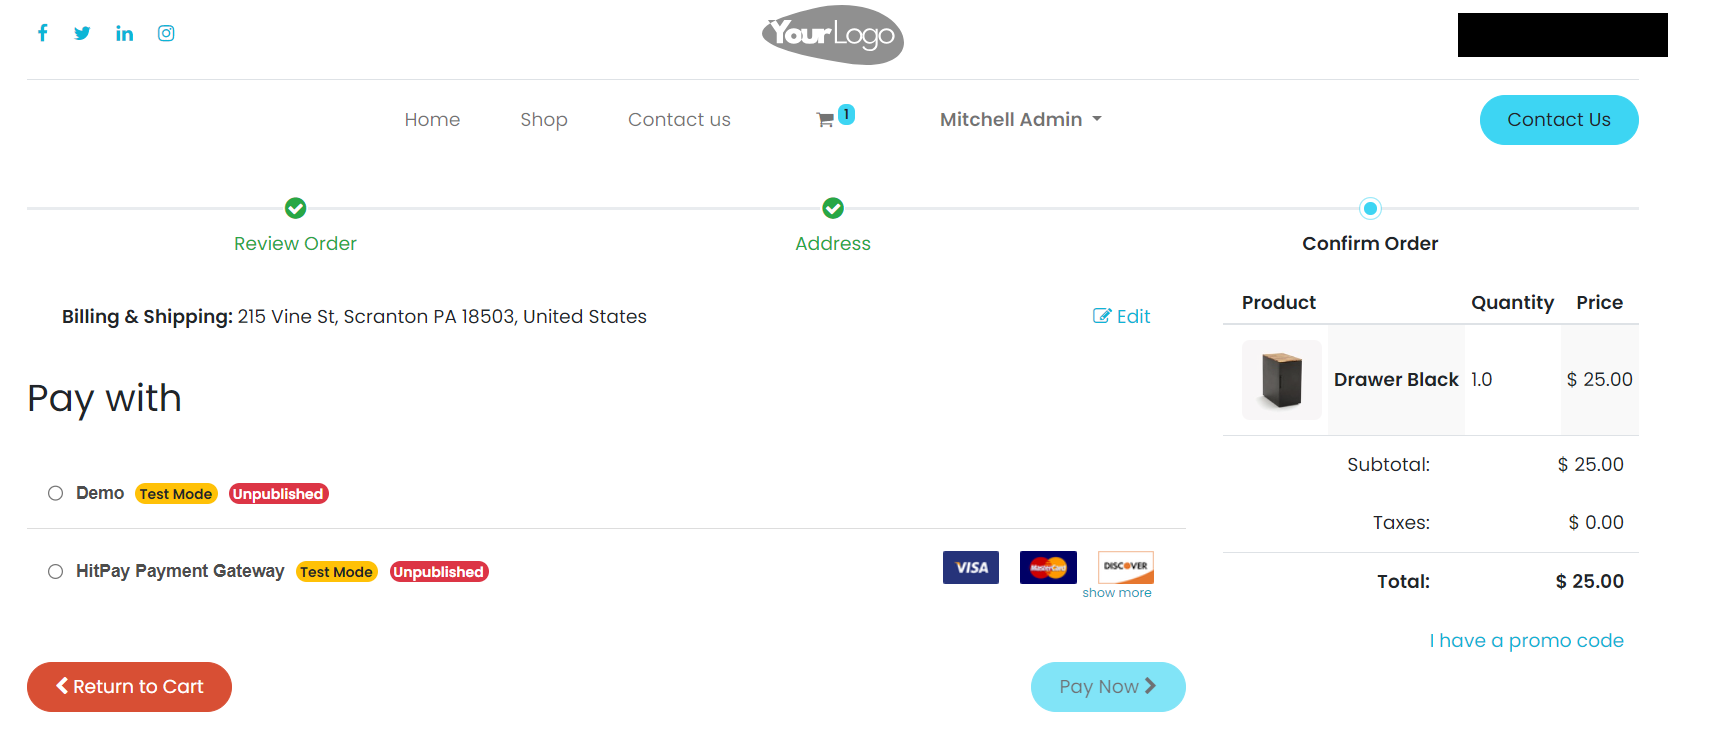
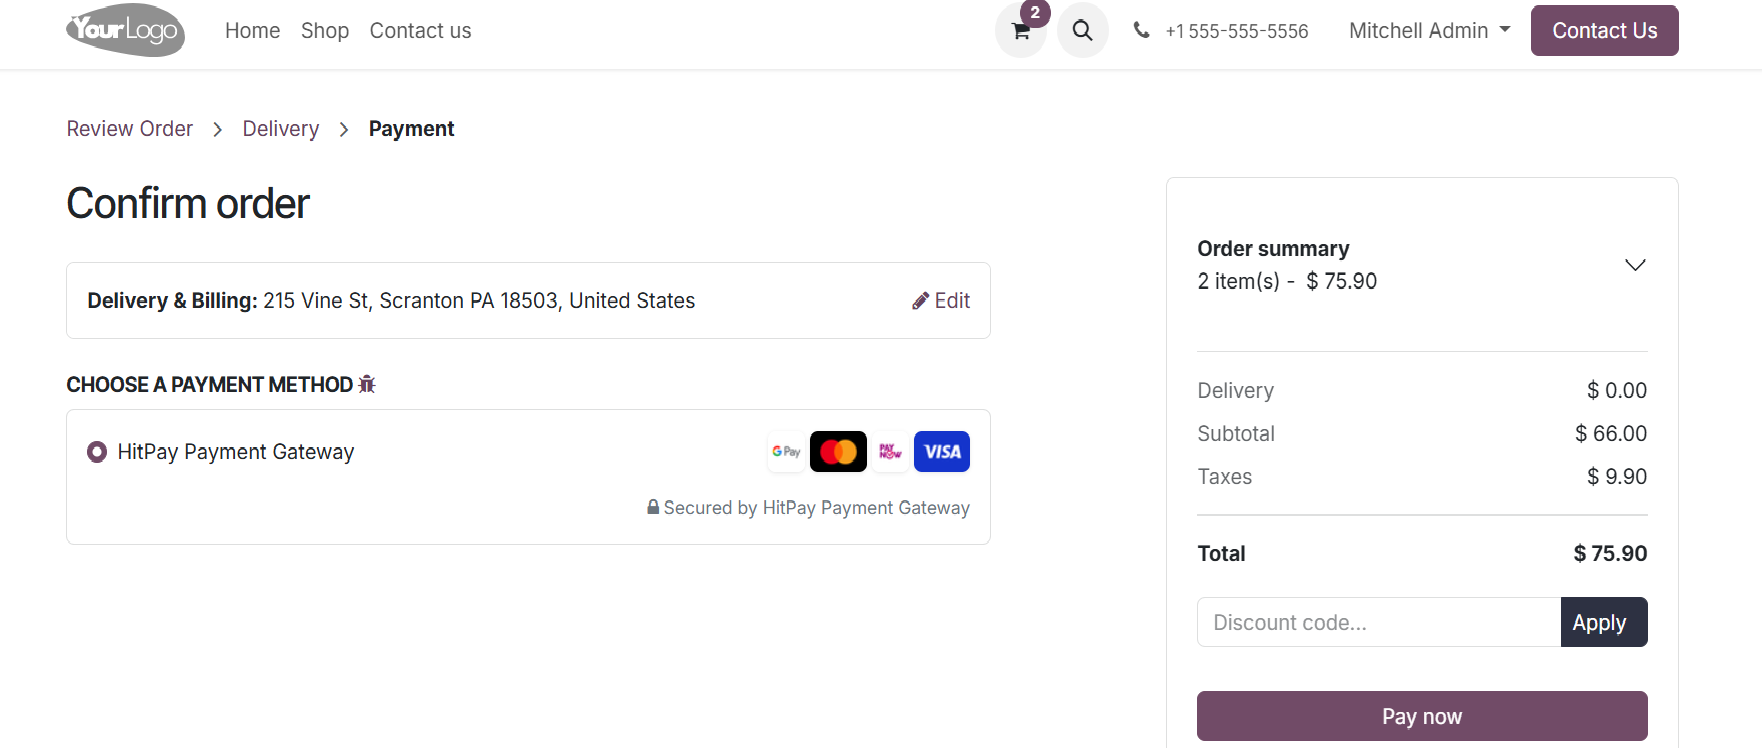
18.0.0 Initial Version

diff --git a/payment_hitpay/models/payment_provider.py b/payment_hitpay/models/payment_provider.py
@@ -13,6 +13,8 @@ from werkzeug import urls
 from odoo import _, api, fields, models
 from odoo.exceptions import ValidationError
 
+from odoo.addons.payment_hitpay import const
+
 
 _logger = logging.getLogger(__name__)
 
@@ -107,6 +109,7 @@ class Paymentprovider(models.Model):
         :return: The calculated signature.
         :rtype: str
         """
+        
         signing_string = ''
         for k in sorted(data.keys()):
             if k != 'hmac':
@@ -119,4 +122,11 @@ class Paymentprovider(models.Model):
         ).hexdigest()
 
         return signature
+
+    def _get_default_payment_method_codes(self):
+        """ Override of `payment` to return the default payment method codes. """
+        default_codes = super()._get_default_payment_method_codes()
+        if self.code != 'hitpay':
+            return default_codes
+        return const.DEFAULT_PAYMENT_METHOD_CODES
    

diff --git a/payment_hitpay/__manifest__.py b/payment_hitpay/__manifest__.py
@@ -1,6 +1,6 @@
 {
     'name': "HitPay Payment Gateway",
-    'version': '17.0.0.1',
+    'version': '18.0.0.1',
     'category': 'Accounting/Payment Providers',
     'sequence': 350,
     'summary': "HitPay Payment Gateway Plugin allows merchants to accept PayNow QR, Cards, Apple Pay, Google Pay, WeChatPay, AliPay and GrabPay Payments.",

diff --git a/payment_hitpay/const.py b/payment_hitpay/const.py
@@ -3,3 +3,7 @@ TRANSACTION_STATUS_MAPPING = {
     'done': ('completed'),
     'canceled': ('canceled', 'null', 'failed'),
 }
+
+DEFAULT_PAYMENT_METHOD_CODES = {
+    'hitpay',
+}

diff --git a/payment_hitpay/README.rst b/payment_hitpay/README.rst
@@ -43,6 +43,9 @@ Configuration
 .. image:: images/6-Select-HitPay-Payment-Gateway.png
 * You can now enter your HitPay Payment Gateway credentials
 .. image:: images/7-Configure-Credentials.png
+* Select Configuration Tab, click -> Enable Payment Methods, Click the Hitpay Payment Gateway(And also make it active if it is not)
+* Enter the payment method title in the Providers tab
+* Enable the sub payment options in the Brands tab and in the configuration tab, you can restrict countries and currencies to the Hitpay Payment Gateway
 .. image:: images/8-Configure-Optional-Title-And-Icons.png
 
 IMPORTANT
